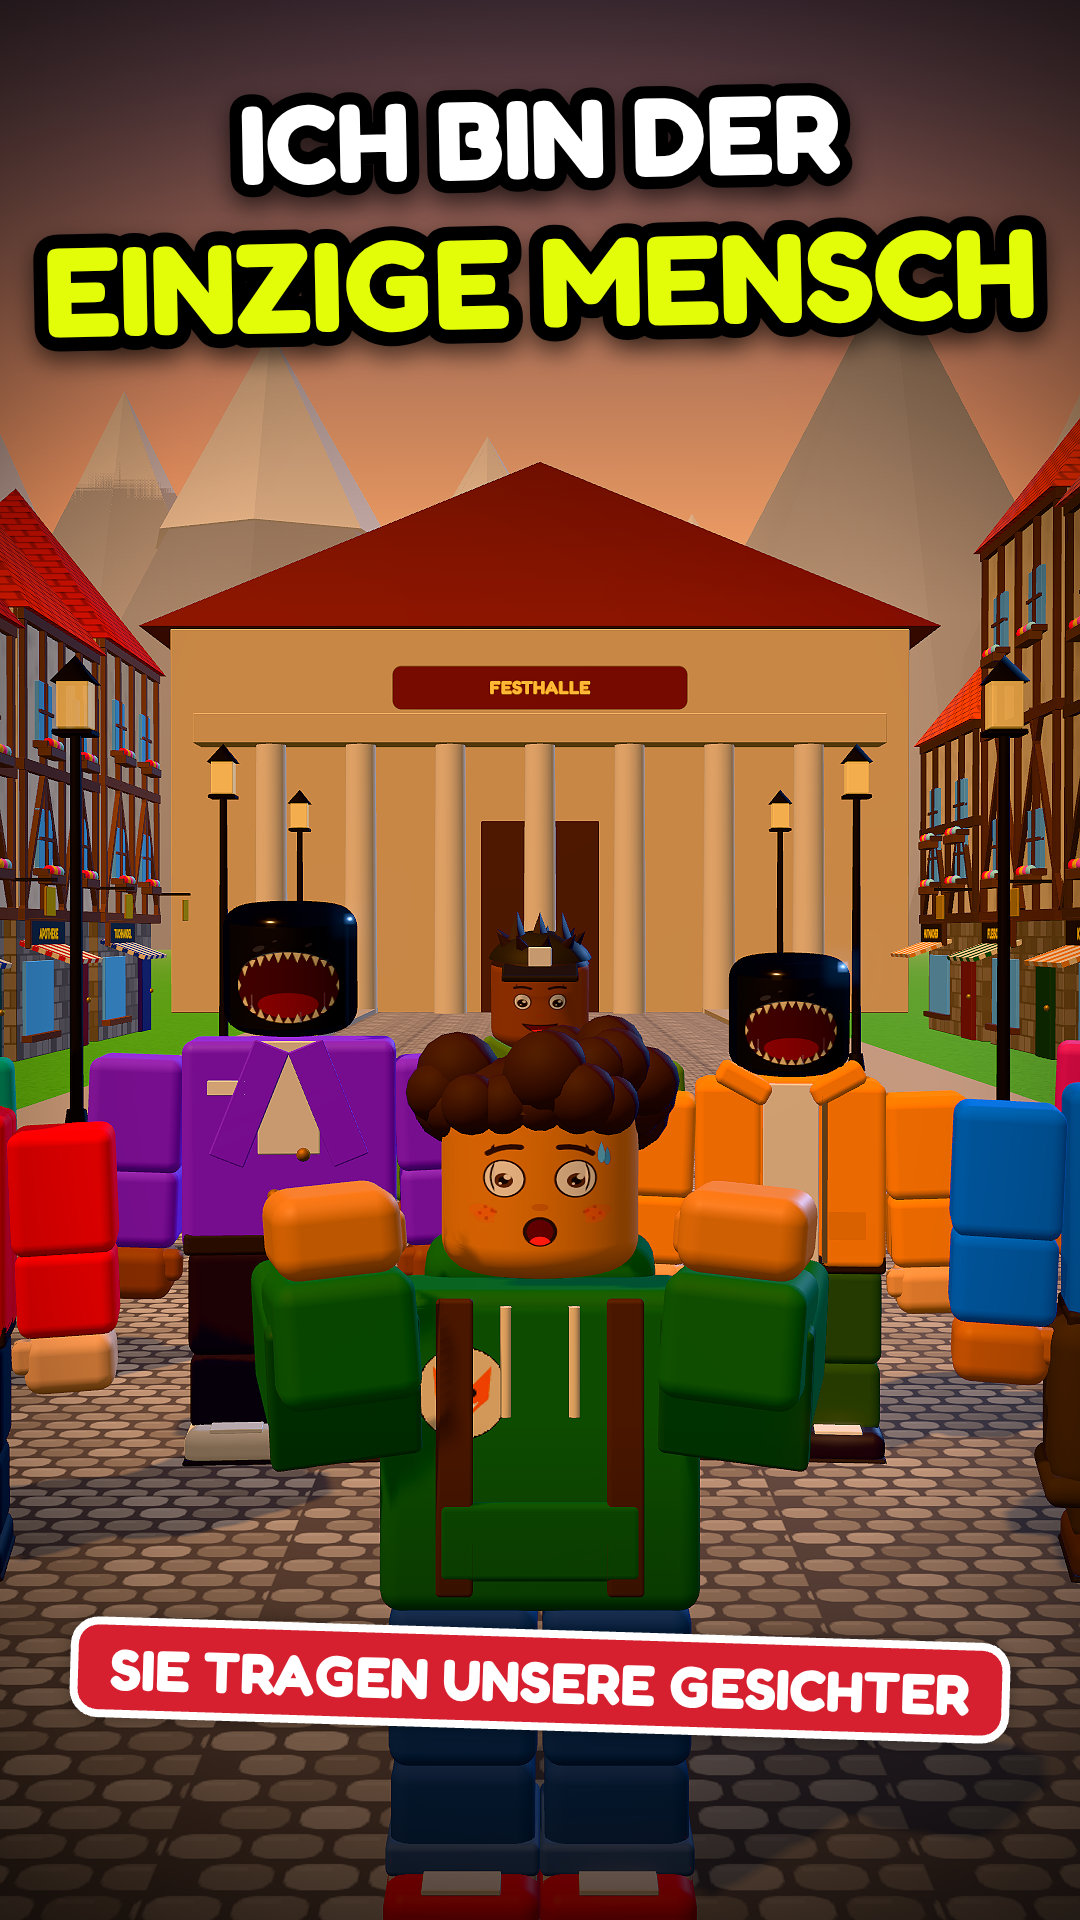
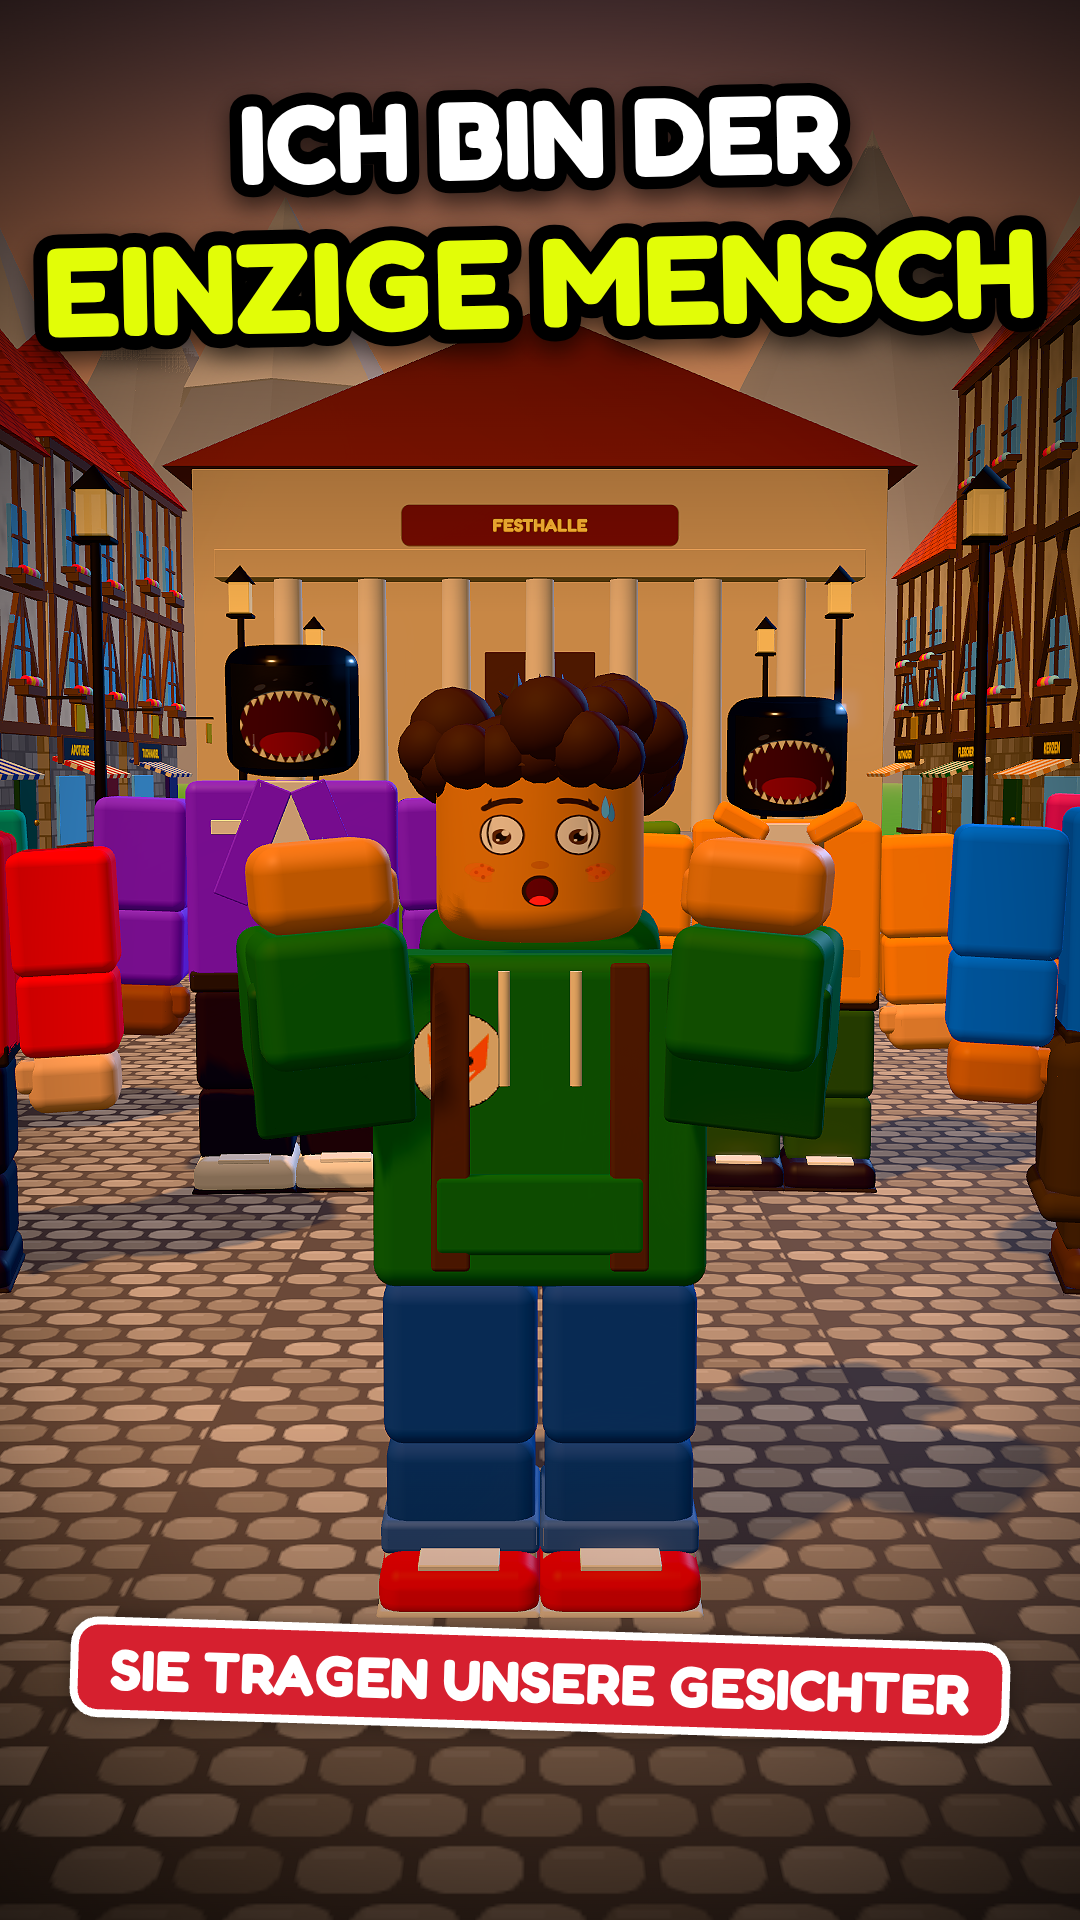
gesichter: covers with the narrator centred
Claude-Session: https://claude.ai/code/session_01KrFL2AZ9ynydNy2geUVLRp

diff --git a/pieces/gesichter/src/main.js b/pieces/gesichter/src/main.js
@@ -489,13 +489,13 @@ window.renderCover = (variant = 0) => {
   if (variant === 0) {   // el narrador asustado delante; detrás, el pueblo con la misma sonrisa y dos ya sin cara
     use('ST'); dusk(); put(hero, 0, 0, -60, 0); applyPose(hero, { aRx: 1.2, aRe: 1.9, aLx: 1.2, aLe: 1.9, aRz: -.25, aLz: -.25, headX: .05, lean: -.05 }); hero.setFace({ mouth: 'o', eyes: 'wide', brows: -.7, sweat: 1 });
     const pos = [[-5.5, -66], [5.5, -66], [-2.6, -70], [2.6, -70], [-8, -72], [8, -72], [0, -75]]; pos.forEach(([x, z], i) => { const p = fk[i]; put(p, x, 0, z, -x * .03); applyPose(p, { ...RIGID, headX: .12 }); if (i === 2 || i === 3) p.unmask(1, .9); else p.setFace({ mouth: 'grin', eyes: 'open', look: [-x * .1, .3] }); });
-    cam([0, 5.4, -48.5], [0, 5.2, -64], 50); grade.uniforms.vig.value = .6; grade.uniforms.sat.value = 1.55; sh(V(0, 0, -66), 30);
+    cam([0, 4.4, -50], [0, 3.0, -64], 54); grade.uniforms.vig.value = .6; grade.uniforms.sat.value = 1.55; sh(V(0, 0, -66), 30);
     camera.updateProjectionMatrix(); sky.sky.position.copy(camera.position); composer.render(); octx.drawImage(renderer.domElement, 0, 0, W, H);
     coverText([['ICH BIN DER', 112, '#ffffff'], ['EINZIGE MENSCH', 140, '#E2FD07']], 'SIE TRAGEN UNSERE GESICHTER');
   } else {   // la pared de las caras colgadas con el narrador mirándolas
-    use('HA'); inside(1, .2); put(hero, HX - 2, 0, 19, PI + .25); applyPose(hero, { headX: -.25, aLz: .2, aRz: .2, headY: -.25 }); hero.setFace({ mouth: 'o', eyes: 'wide', brows: -.6 });
+    use('HA'); inside(1, .2); put(hero, HX - .6, 0, 15.5, PI + .12); applyPose(hero, { headX: -.25, aLz: .2, aRz: .2, headY: -.25 }); hero.setFace({ mouth: 'o', eyes: 'wide', brows: -.6 });
     put(fk[8], HX + 4.5, 0, 22.5, PI - .5); fk[8].unmask(1, .8); applyPose(fk[8], { aRx: 2.5, aRe: .6 }); attach(FOLKF, fk[8].aR.hand, [0, -.9, .6], [0, PI, 0], 1);
-    cam([HX - 3.8, 5.6, 7], [HX + .2, 6.2, 27], 56); grade.uniforms.vig.value = .6; grade.uniforms.sat.value = 1.55;
+    cam([HX - 1.6, 4.6, 6.5], [HX - .2, 4.4, 27], 58); grade.uniforms.vig.value = .6; grade.uniforms.sat.value = 1.55;
     camera.updateProjectionMatrix(); composer.render(); octx.drawImage(renderer.domElement, 0, 0, W, H);
     coverText([['WEM GEHÖREN', 112, '#ffffff'], ['DIESE GESICHTER?', 128, '#E2FD07']], 'NIEMALS WEINEN!');
     arrow(W * .86, H * .28, 2.2);
